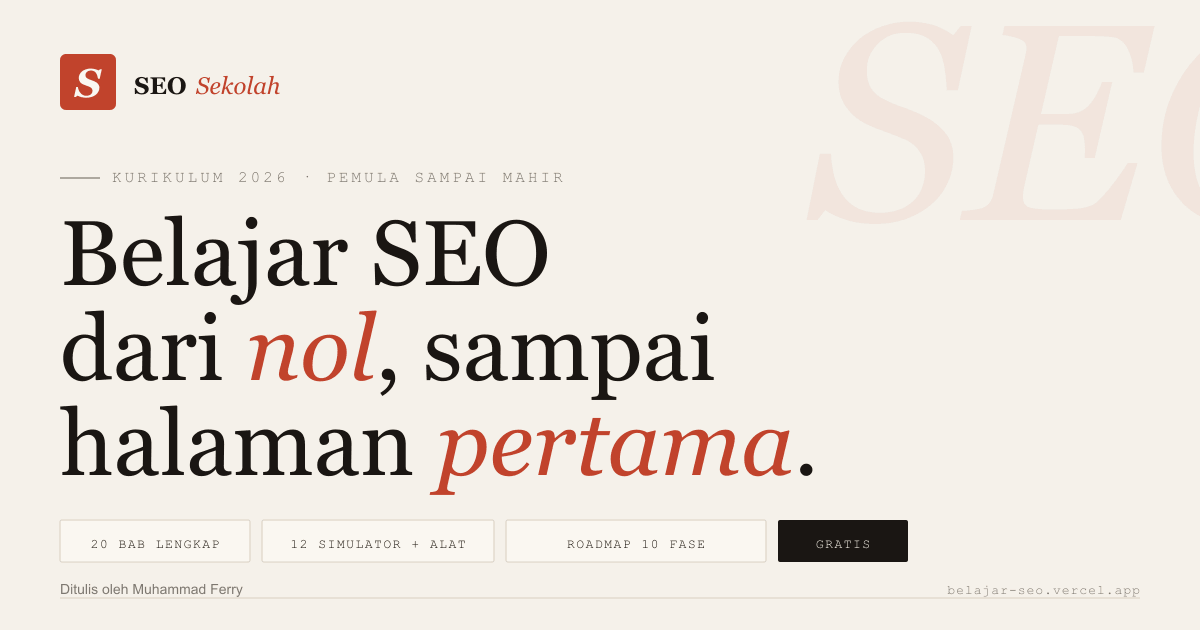
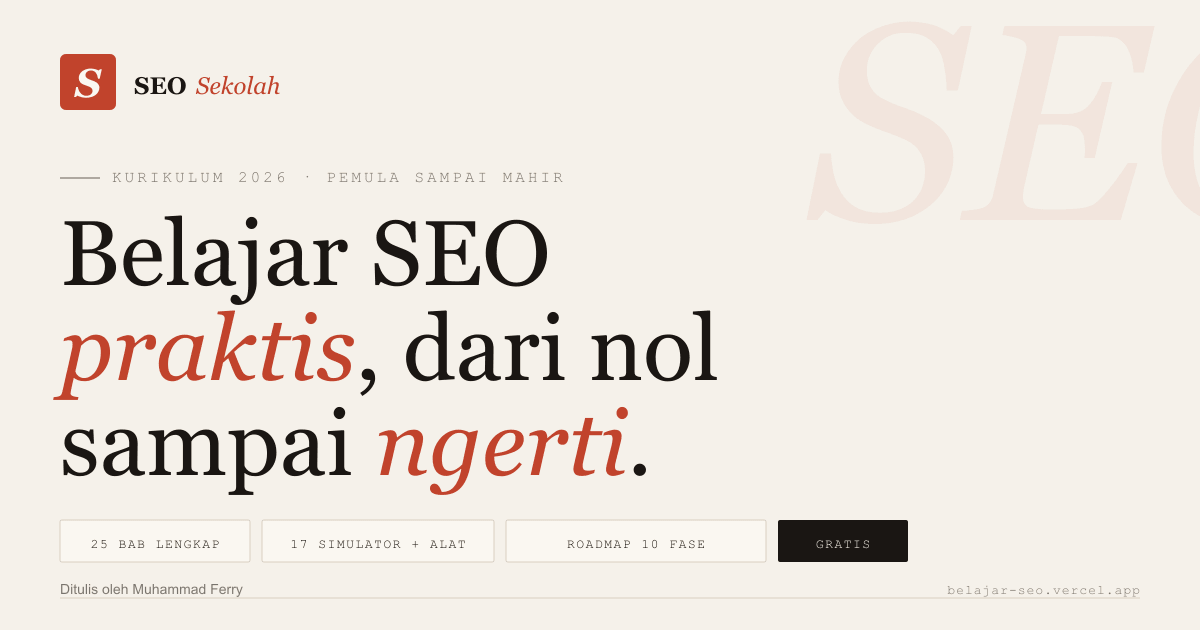
Add §12 Setup Google Tools (step-by-step GSC 5 steps, GA4 6 steps, GTM 6 steps in 3-tab panel with DNS TXT verification, Measurement ID, GA4 Configuration tag, Preview+Publish flow). Renumber 12-24 to 13-25. Hero stats 24->25 bab + 16->17 tools. Progress nav add Setup Google. H1 change to 'Belajar S

Changed region(s): [[0.0308, 0.4825, 0.6783, 0.7841]]

diff --git a/index.html b/index.html
@@ -3,7 +3,7 @@
 <head>
 <meta charset="UTF-8">
 <meta name="viewport" content="width=device-width, initial-scale=1.0">
-<title>Belajar SEO dari Nol, Interaktif dan Visual (2026)</title>
+<title>Belajar SEO Praktis dari Nol Sampai Ngerti · Kurikulum 2026</title>
 <meta name="description" content="Panduan interaktif belajar SEO dari nol sampai halaman pertama Google. Lengkap dengan simulator Core Web Vitals, animasi crawler, playground keyword, roadmap 10 fase learningseo.io, serta 10 masalah technical SEO beserta solusinya. Gratis, Bahasa Indonesia, edisi 2026.">
 <meta name="keywords" content="belajar seo, seo pemula, seo indonesia, panduan seo gratis, tutorial seo, seo 2026, core web vitals, keyword research, on page seo, technical seo, backlink, learningseo, seo sekolah, ai search, google search console">
 <meta name="author" content="Muhammad Ferry">
@@ -642,8 +642,8 @@
     <h1>Belajar SEO<br><em>praktis</em>,<br>dari nol<br>sampai ngerti.</h1>
     <p class="hero-lede">Panduan interaktif, praktis, dan jujur untuk siapa saja yang ingin websitenya ditemukan. Lengkap dengan animasi crawler, simulator Core Web Vitals, dan playground keyword. Tanpa trik, tanpa buzzword kosong.</p>
     <div class="hero-meta">
-      <div><strong>24</strong>Bab lengkap</div>
-      <div><strong>16</strong>Simulator dan alat</div>
+      <div><strong>25</strong>Bab lengkap</div>
+      <div><strong>17</strong>Simulator dan alat</div>
       <div><strong>10 fase</strong>Roadmap learningseo.io</div>
       <div><strong>Gratis</strong>Selamanya</div>
     </div>
@@ -2345,10 +2345,230 @@
   </script>
 </section>
 
+<section id="setup-google">
+  <style>
+    #setup-google { padding: 96px 32px; background: var(--bg-2); color: var(--ink); }
+    .sg-intro { max-width: 720px; font-size: 15px; color: var(--ink-2); line-height: 1.6; margin-bottom: 32px; padding: 20px 24px; background: var(--paper); border: 1px solid var(--line); border-left: 3px solid var(--accent); }
+    .sg-intro strong { color: var(--ink); font-family: 'Fraunces', serif; font-weight: 600; }
+
+    .sg-tabs { display: flex; gap: 0; margin-bottom: 0; border: 1px solid var(--line); border-bottom: none; background: var(--paper); }
+    .sg-tab { flex: 1; padding: 16px 18px; background: transparent; border: none; border-right: 1px solid var(--line); font-family: 'Fraunces', serif; font-size: 16px; font-weight: 500; color: var(--muted); cursor: pointer; text-align: left; transition: all 0.15s; }
+    .sg-tab:last-child { border-right: none; }
+    .sg-tab:hover { color: var(--accent); background: var(--bg); }
+    .sg-tab.is-active { color: var(--paper); background: var(--ink); }
+    .sg-tab small { display: block; font-family: 'JetBrains Mono', monospace; font-size: 10px; color: var(--muted); letter-spacing: 0.1em; margin-top: 4px; text-transform: uppercase; font-weight: 400; }
+    .sg-tab.is-active small { color: var(--accent-soft); }
+    @media (max-width: 760px) { .sg-tabs { flex-direction: column; } .sg-tab { border-right: none; border-bottom: 1px solid var(--line); } .sg-tab:last-child { border-bottom: none; } }
+
+    .sg-panel { background: var(--paper); border: 1px solid var(--line); padding: 40px; display: none; }
+    .sg-panel.is-active { display: block; }
+    .sg-panel-header { margin-bottom: 28px; padding-bottom: 20px; border-bottom: 1px solid var(--line); display: flex; justify-content: space-between; align-items: baseline; flex-wrap: wrap; gap: 12px; }
+    .sg-panel-title { font-family: 'Fraunces', serif; font-weight: 500; font-size: 26px; line-height: 1.2; letter-spacing: -0.01em; }
+    .sg-panel-title em { font-family: 'Instrument Serif', serif; font-style: italic; color: var(--accent); }
+    .sg-panel-meta { font-family: 'JetBrains Mono', monospace; font-size: 10px; letter-spacing: 0.12em; color: var(--muted); text-transform: uppercase; display: flex; gap: 16px; flex-wrap: wrap; }
+    .sg-panel-meta strong { color: var(--ink); }
+
+    .sg-steps { list-style: none; padding: 0; margin: 0; display: flex; flex-direction: column; gap: 0; }
+    .sg-step { display: grid; grid-template-columns: 56px 1fr; gap: 20px; padding: 20px 0; border-top: 1px dashed var(--line); }
+    .sg-step:first-child { border-top: none; padding-top: 4px; }
+    .sg-step-num { font-family: 'Instrument Serif', serif; font-style: italic; font-size: 40px; color: var(--accent); line-height: 0.9; }
+    .sg-step-title { font-family: 'Fraunces', serif; font-size: 17px; font-weight: 500; line-height: 1.3; margin-bottom: 6px; color: var(--ink); }
+    .sg-step-desc { font-size: 14px; color: var(--ink-2); line-height: 1.65; margin-bottom: 8px; }
+    .sg-step-desc code { font-family: 'JetBrains Mono', monospace; font-size: 12px; background: var(--bg); padding: 2px 6px; border: 1px solid var(--line); color: var(--accent); }
+    .sg-step-desc a { color: var(--accent); text-decoration: none; border-bottom: 1px dashed var(--accent); }
+    .sg-step-desc a:hover { color: var(--ink); border-color: var(--ink); }
+    .sg-step-tip { font-family: 'Instrument Serif', serif; font-style: italic; font-size: 13px; color: var(--muted); padding: 8px 12px; background: var(--bg); border-left: 2px solid var(--line); margin-top: 6px; }
+    .sg-step-tip strong { color: var(--ink); font-family: 'Fraunces', serif; font-weight: 500; font-style: normal; }
+  </style>
+
+  <div class="container">
+    <div class="section-header">
+      <div class="section-num"><span class="level-badge pemula">Pemula</span>12 · SETUP GOOGLE TOOLS</div>
+      <div>
+        <h2>Pasang <em>GSC, GA4, dan GTM</em> dalam 30 menit.</h2>
+        <p>Tiga tools wajib sebelum SEO serius. Gratis, resmi dari Google. Ikuti step demi step, tidak perlu tanya developer. Setelah semua setup, kamu punya data lengkap: siapa crawl situsmu, bagaimana user behavior, dan event apa yang terjadi.</p>
+      </div>
+    </div>
+
+    <div class="sg-intro">
+      <strong>Urutan rekomendasi:</strong> GSC dulu (data SEO), GA4 kedua (behavior), GTM terakhir (untuk kelola tag ke depan tanpa sentuh kode). Bisa dipasang semua dalam 1 hari kerja. Data pertama muncul setelah 24-72 jam.
+    </div>
+
+    <div class="sg-tabs" id="sg-tabs">
+      <button class="sg-tab is-active" data-panel="gsc">Google Search Console<small>GSC · ~10 menit</small></button>
+      <button class="sg-tab" data-panel="ga4">Google Analytics 4<small>GA4 · ~10 menit</small></button>
+      <button class="sg-tab" data-panel="gtm">Google Tag Manager<small>GTM · ~10 menit</small></button>
+    </div>
+
+    <div class="sg-panel is-active" data-panel="gsc">
+      <div class="sg-panel-header">
+        <div class="sg-panel-title">Setup <em>Google Search Console</em></div>
+        <div class="sg-panel-meta"><span>DATA: <strong>Query, Coverage, Core Web Vitals</strong></span><span>WAKTU: <strong>~10 menit</strong></span></div>
+      </div>
+      <ol class="sg-steps">
+        <li class="sg-step">
+          <div class="sg-step-num">i</div>
+          <div>
+            <div class="sg-step-title">Buka Google Search Console</div>
+            <div class="sg-step-desc">Kunjungi <a href="https://search.google.com/search-console" target="_blank" rel="noopener">search.google.com/search-console</a> dan sign in dengan akun Google yang kamu pakai untuk situs.</div>
+          </div>
+        </li>
+        <li class="sg-step">
+          <div class="sg-step-num">ii</div>
+          <div>
+            <div class="sg-step-title">Add Property: pilih tipe Domain</div>
+            <div class="sg-step-desc">Klik <code>Add property</code> lalu pilih <strong>Domain</strong> (bukan URL prefix). Domain property cover semua subdomain dan protokol otomatis. Masukkan nama domain tanpa http/https (contoh: <code>situsmu.com</code>).</div>
+            <div class="sg-step-tip"><strong>Kenapa Domain vs URL prefix?</strong> Domain satu property untuk semua subdomain (www, blog, shop). URL prefix cuma 1 variasi. Lebih efisien pakai Domain.</div>
+          </div>
+        </li>
+        <li class="sg-step">
+          <div class="sg-step-num">iii</div>
+          <div>
+            <div class="sg-step-title">Verifikasi via DNS TXT record</div>
+            <div class="sg-step-desc">GSC kasih TXT record unik (contoh: <code>google-site-verification=abc123...</code>). Buka panel DNS hosting/domain registrar kamu (Cloudflare, Niagahoster, dll), tambah record baru dengan tipe <strong>TXT</strong>, name <strong>@</strong>, value TXT dari GSC. Simpan, tunggu 5-15 menit, balik ke GSC klik <code>Verify</code>.</div>
+            <div class="sg-step-tip"><strong>Alternatif kalau tidak akses DNS:</strong> pilih tipe URL prefix (bukan Domain), lalu verifikasi via HTML file upload atau HTML meta tag di header situs.</div>
+          </div>
+        </li>
+        <li class="sg-step">
+          <div class="sg-step-num">iv</div>
+          <div>
+            <div class="sg-step-title">Submit sitemap.xml</div>
+            <div class="sg-step-desc">Di menu kiri GSC, klik <code>Sitemaps</code>. Masukkan URL sitemap kamu (biasanya <code>/sitemap.xml</code>). Klik Submit. Status harus "Success" dalam beberapa menit.</div>
+          </div>
+        </li>
+        <li class="sg-step">
+          <div class="sg-step-num">v</div>
+          <div>
+            <div class="sg-step-title">Tunggu data pertama (1-7 hari)</div>
+            <div class="sg-step-desc">Performance report baru menampilkan data klik/impressions setelah 24-72 jam. Coverage report lebih cepat (12-24 jam). Jangan panik kalau masih kosong hari pertama.</div>
+          </div>
+        </li>
+      </ol>
+    </div>
+
+    <div class="sg-panel" data-panel="ga4">
+      <div class="sg-panel-header">
+        <div class="sg-panel-title">Setup <em>Google Analytics 4</em></div>
+        <div class="sg-panel-meta"><span>DATA: <strong>Users, Engagement, Conversion</strong></span><span>WAKTU: <strong>~10 menit</strong></span></div>
+      </div>
+      <ol class="sg-steps">
+        <li class="sg-step">
+          <div class="sg-step-num">i</div>
+          <div>
+            <div class="sg-step-title">Buka analytics.google.com</div>
+            <div class="sg-step-desc">Sign in dengan akun Google yang sama dengan GSC. Kalau baru pertama kali: klik <code>Start measuring</code>. Kalau sudah punya account: Admin → <code>Create Property</code>.</div>
+          </div>
+        </li>
+        <li class="sg-step">
+          <div class="sg-step-num">ii</div>
+          <div>
+            <div class="sg-step-title">Buat Property baru</div>
+            <div class="sg-step-desc">Isi property name (nama bebas, contoh: "Website Utama"), pilih <strong>Reporting time zone</strong> (Asia/Jakarta) dan <strong>Currency</strong> (IDR). Klik Next, pilih business details sesuai kondisi kamu.</div>
+          </div>
+        </li>
+        <li class="sg-step">
+          <div class="sg-step-num">iii</div>
+          <div>
+            <div class="sg-step-title">Buat Data Stream: Web</div>
+            <div class="sg-step-desc">Pilih platform <strong>Web</strong>. Masukkan URL situs (contoh: <code>https://situsmu.com</code>) dan stream name. Centang <code>Enhanced measurement</code> supaya otomatis track scroll, outbound click, video, dll.</div>
+          </div>
+        </li>
+        <li class="sg-step">
+          <div class="sg-step-num">iv</div>
+          <div>
+            <div class="sg-step-title">Copy Measurement ID</div>
+            <div class="sg-step-desc">Setelah stream dibuat, kamu dapat <strong>Measurement ID</strong> format <code>G-XXXXXXXXXX</code>. Catat, butuh nanti saat pasang tag.</div>
+            <div class="sg-step-tip"><strong>Pilihan pasang tag:</strong> via GTM (disarankan, lebih fleksibel) atau paste gtag.js script langsung di <code>&lt;head&gt;</code> situs. Kalau kamu ikut guide ini sampai tab GTM, pakai GTM saja.</div>
+          </div>
+        </li>
+        <li class="sg-step">
+          <div class="sg-step-num">v</div>
+          <div>
+            <div class="sg-step-title">Verifikasi via Realtime report</div>
+            <div class="sg-step-desc">Setelah tag terpasang, buka situsmu di tab baru. Balik ke GA4, buka <code>Reports → Realtime</code>. Harus muncul 1 active user (kamu sendiri) dalam 30 detik.</div>
+          </div>
+        </li>
+        <li class="sg-step">
+          <div class="sg-step-num">vi</div>
+          <div>
+            <div class="sg-step-title">Link ke GSC (bonus)</div>
+            <div class="sg-step-desc">Admin → Product Links → Search Console Links. Connect property GSC yang tadi kamu setup. Hasilnya, GA4 bisa tampilkan query organic yang bawa traffic di report Acquisition.</div>
+          </div>
+        </li>
+      </ol>
+    </div>
+
+    <div class="sg-panel" data-panel="gtm">
+      <div class="sg-panel-header">
+        <div class="sg-panel-title">Setup <em>Google Tag Manager</em></div>
+        <div class="sg-panel-meta"><span>FUNGSI: <strong>Kelola tag tanpa sentuh kode</strong></span><span>WAKTU: <strong>~10 menit</strong></span></div>
+      </div>
+      <ol class="sg-steps">
+        <li class="sg-step">
+          <div class="sg-step-num">i</div>
+          <div>
+            <div class="sg-step-title">Buka tagmanager.google.com</div>
+            <div class="sg-step-desc">Sign in. Klik <code>Create Account</code>. Isi account name (nama brand atau perusahaan), country, container name (nama situs), dan pilih platform <strong>Web</strong>.</div>
+          </div>
+        </li>
+        <li class="sg-step">
+          <div class="sg-step-num">ii</div>
+          <div>
+            <div class="sg-step-title">Setujui TOS, copy container snippet</div>
+            <div class="sg-step-desc">GTM kasih dua blok kode (head dan body). Container ID format <code>GTM-XXXXXXX</code>. Copy kedua blok.</div>
+          </div>
+        </li>
+        <li class="sg-step">
+          <div class="sg-step-num">iii</div>
+          <div>
+            <div class="sg-step-title">Pasang snippet di semua halaman</div>
+            <div class="sg-step-desc">Blok pertama paste tepat setelah <code>&lt;head&gt;</code> setinggi mungkin. Blok kedua (noscript) paste tepat setelah <code>&lt;body&gt;</code>. Di WordPress, pakai plugin GTM4WP. Di Next.js, pasang di <code>_document.js</code>. Di Wix/Webflow, ada field khusus GTM di settings.</div>
+          </div>
+        </li>
+        <li class="sg-step">
+          <div class="sg-step-num">iv</div>
+          <div>
+            <div class="sg-step-title">Buat tag GA4 Configuration</div>
+            <div class="sg-step-desc">Di GTM: <code>Tags → New</code>. Tag type: <strong>Google Analytics: GA4 Configuration</strong>. Masukkan Measurement ID dari GA4 (<code>G-XXXXXXXXXX</code>). Trigger: <strong>All Pages</strong>. Save.</div>
+          </div>
+        </li>
+        <li class="sg-step">
+          <div class="sg-step-num">v</div>
+          <div>
+            <div class="sg-step-title">Preview & debug</div>
+            <div class="sg-step-desc">Klik <code>Preview</code> di GTM. Masukkan URL situs kamu, open in Tag Assistant. Assistant akan connect dan tunjukkan tag mana yang firing saat kamu browse situs. Pastikan GA4 Configuration fired di semua halaman.</div>
+          </div>
+        </li>
+        <li class="sg-step">
+          <div class="sg-step-num">vi</div>
+          <div>
+            <div class="sg-step-title">Submit & Publish</div>
+            <div class="sg-step-desc">Setelah test OK, klik <code>Submit</code> di GTM. Kasih version name (contoh: "Initial GA4 setup"). Klik Publish. Dari sini, semua tag baru (Facebook Pixel, Ads Conversion, custom event) tinggal deploy via GTM tanpa touch kode situs.</div>
+          </div>
+        </li>
+      </ol>
+    </div>
+  </div>
+
+  <script>
+    (function(){
+      const tabs = document.querySelectorAll('#sg-tabs .sg-tab');
+      const panels = document.querySelectorAll('#setup-google .sg-panel');
+      tabs.forEach(tab => {
+        tab.addEventListener('click', () => {
+          const key = tab.dataset.panel;
+          tabs.forEach(t => t.classList.toggle('is-active', t === tab));
+          panels.forEach(p => p.classList.toggle('is-active', p.dataset.panel === key));
+        });
+      });
+    })();
+  </script>
+</section>
+
 <section id="kurikulum" class="curriculum">
   <div class="container">
     <div class="section-header">
-      <div class="section-num"><span class="level-badge pemula">Pemula</span>12 · KURIKULUM</div>
+      <div class="section-num"><span class="level-badge pemula">Pemula</span>13 · KURIKULUM</div>
       <div>
         <h2>Delapan modul. <em>Urut.</em> Tanpa lompat.</h2>
         <p>Belajar SEO seperti membangun rumah. Kamu tidak bisa memasang dinding sebelum fondasinya kuat. Ikuti modul secara berurutan; setiap modul mengandaikan kamu sudah menguasai yang sebelumnya.</p>
@@ -2443,7 +2663,7 @@
 <section id="checklist" class="checklist-section">
   <div class="container">
     <div class="section-header">
-      <div class="section-num"><span class="level-badge pemula">Pemula</span>13 · CHECKLIST</div>
+      <div class="section-num"><span class="level-badge pemula">Pemula</span>14 · CHECKLIST</div>
       <div>
         <h2>Checklist halaman <em>pertama</em> yang akan kamu optimasi.</h2>
         <p>Sepuluh hal wajib sebelum kamu bilang "halaman ini sudah di-SEO". Klik untuk menandai, progresmu tersimpan di browser.</p>
@@ -2481,7 +2701,7 @@
 <section id="rencana">
   <div class="container">
     <div class="section-header">
-      <div class="section-num"><span class="level-badge pemula">Pemula</span>14 · RENCANA 30 HARI</div>
+      <div class="section-num"><span class="level-badge pemula">Pemula</span>15 · RENCANA 30 HARI</div>
       <div>
         <h2>30 hari pertama, <em>minggu demi minggu</em>.</h2>
         <p>Kalau kamu betul-betul dari nol, ini peta jalan 4 minggu yang sudah terbukti. Fokus dan konsisten lebih penting daripada buru-buru.</p>
@@ -2520,7 +2740,7 @@
 <section id="faq" class="faq">
   <div class="container">
     <div class="section-header">
-      <div class="section-num"><span class="level-badge pemula">Pemula</span>15 · FAQ</div>
+      <div class="section-num"><span class="level-badge pemula">Pemula</span>16 · FAQ</div>
       <div><h2>Pertanyaan yang <em>paling sering</em> ditanyakan.</h2></div>
     </div>
 
@@ -2539,7 +2759,7 @@
 <section id="onpage-inspector">
   <div class="container">
     <div class="section-header">
-      <div class="section-num"><span class="level-badge menengah">Menengah</span>16 · ON-PAGE INSPECTOR</div>
+      <div class="section-num"><span class="level-badge menengah">Menengah</span>17 · ON-PAGE INSPECTOR</div>
       <div>
         <h2 class="serif">Cek kesehatan <em class="italic-serif">on-page</em> halamanmu.</h2>
         <p>Masukkan title tag, meta description, dan target keyword. Inspector akan menilai panjang karakter, posisi keyword, serta menampilkan mockup bagaimana hasilmu muncul di Google.</p>
@@ -2701,7 +2921,7 @@
 <section id="cwv-simulator">
   <div class="container">
     <div class="section-header">
-      <div class="section-num"><span class="level-badge menengah">Menengah</span>17 · CORE WEB VITALS</div>
+      <div class="section-num"><span class="level-badge menengah">Menengah</span>18 · CORE WEB VITALS</div>
       <div>
         <h2 class="serif">Simulasi performa <em class="italic-serif">halaman</em>mu.</h2>
         <p>Geser slider untuk melihat bagaimana tiga metrik Core Web Vitals (LCP, CLS, INP) berinteraksi. Google pakai ketiganya sebagai sinyal ranking sejak 2021, jadi jangan cuma kejar konten, kejar juga kecepatan.</p>
@@ -2808,7 +3028,7 @@
 <section id="backlink-graph">
   <div class="container">
     <div class="section-header">
-      <div class="section-num"><span class="level-badge menengah">Menengah</span>18 · BACKLINK FLOW</div>
+      <div class="section-num"><span class="level-badge menengah">Menengah</span>19 · BACKLINK FLOW</div>
       <div>
         <h2 class="serif">Bagaimana <em class="italic-serif">link equity</em> mengalir?</h2>
         <p>Setiap backlink mengirim sinyal otoritas ke situsmu, tapi tidak semua link sama bobotnya. Visual di bawah memperlihatkan bagaimana link berkualitas tinggi mendorong skor naik, sementara link spam justru bisa menarikmu turun.</p>
@@ -3042,7 +3262,7 @@
 
   <div class="container">
     <div class="section-header">
-      <div class="section-num"><span class="level-badge mahir">Mahir</span>19 · TECHNICAL SEO</div>
+      <div class="section-num"><span class="level-badge mahir">Mahir</span>20 · TECHNICAL SEO</div>
       <div>
         <h2>Sepuluh <em>masalah teknis</em> paling sering, lengkap dengan solusinya.</h2>
         <p>Technical SEO adalah fondasi infrastruktur. Kalau Googlebot tidak bisa crawl, render, atau index situsmu dengan benar, konten sebagus apapun tidak akan tampil di SERP. Bagian ini memetakan masalah-masalah paling umum yang kami temui di audit situs UMKM maupun enterprise.</p>
@@ -3529,7 +3749,7 @@
 
   <div class="container">
     <div class="section-header">
-      <div class="section-num"><span class="level-badge mahir">Mahir</span>20 · CRAWL BUDGET</div>
+      <div class="section-num"><span class="level-badge mahir">Mahir</span>21 · CRAWL BUDGET</div>
       <div>
         <h2>Berapa halaman Googlebot mau <em>crawl</em> dari situsmu?</h2>
         <p>Crawl budget adalah resource terbatas yang Google alokasikan untuk menjelajahi situsmu tiap hari. Untuk situs kecil tidak jadi masalah, tapi untuk e-commerce dengan ratusan ribu URL, salah manajemen bikin halaman penting tidak pernah di-crawl.</p>
@@ -3894,7 +4114,7 @@
 
   <div class="container">
     <div class="section-header">
-      <div class="section-num"><span class="level-badge mahir">Mahir</span>21 · GEO</div>
+      <div class="section-num"><span class="level-badge mahir">Mahir</span>22 · GEO</div>
       <div>
         <h2>Generative <em>Engine</em> Optimization: di-cite oleh ChatGPT, Perplexity, dan Gemini.</h2>
         <p>Kalau SEO tradisional ngejar posisi di SERP, GEO ngejar di-cite sebagai sumber di jawaban AI. Dua-duanya wajib di 2026, tapi teknik-nya beda. Bagian ini rangkum riset kredibel dari Princeton dan Gartner.</p>
@@ -4064,7 +4284,7 @@
 <section id="tools" class="tools">
   <div class="container">
     <div class="section-header">
-      <div class="section-num"><span class="level-badge semua">Semua Level</span>22 · TOOLS</div>
+      <div class="section-num"><span class="level-badge semua">Semua Level</span>23 · TOOLS</div>
       <div>
         <h2>Tools <em>gratis</em> yang cukup untuk memulai.</h2>
         <p>Jangan terjebak marketing tools mahal. Untuk pemula, kombinasi tools gratis di bawah ini sudah lebih dari cukup selama 6 bulan pertama.</p>
@@ -4163,7 +4383,7 @@
 <section id="glosarium">
   <div class="container">
     <div class="section-header">
-      <div class="section-num"><span class="level-badge semua">Semua Level</span>23 · GLOSARIUM</div>
+      <div class="section-num"><span class="level-badge semua">Semua Level</span>24 · GLOSARIUM</div>
       <div>
         <h2>Istilah yang akan <em>sering</em> kamu temui.</h2>
         <p>SEO penuh jargon, dan banyak panduan menggunakannya seolah-olah semua orang sudah tahu. Berikut bahasa Indonesia plainnya.</p>
@@ -4221,7 +4441,7 @@
 
   <div class="container">
     <div class="section-header">
-      <div class="section-num">24 · TENTANG PENULIS</div>
+      <div class="section-num">25 · TENTANG PENULIS</div>
       <div>
         <h2>Bahan ini <em>tidak</em> ditulis oleh AI generik.</h2>
         <p>Semua materi disusun dari pengalaman lapangan, referensi Google Search Central, studi kasus UMKM dan enterprise, serta eksperimen di klien nyata.</p>
@@ -4350,22 +4570,23 @@
   <a class="progress-nav-item" data-section="keyword-playground" href="#keyword-playground"><span class="progress-nav-label">09 Keyword</span></a>
   <a class="progress-nav-item" data-section="title-generator" href="#title-generator"><span class="progress-nav-label">10 Title Gen</span></a>
   <a class="progress-nav-item" data-section="revenue-simulator" href="#revenue-simulator"><span class="progress-nav-label">11 Revenue Sim</span></a>
-  <a class="progress-nav-item" data-section="kurikulum" href="#kurikulum"><span class="progress-nav-label">12 Kurikulum</span></a>
-  <a class="progress-nav-item" data-section="checklist" href="#checklist"><span class="progress-nav-label">13 Checklist</span></a>
-  <a class="progress-nav-item" data-section="rencana" href="#rencana"><span class="progress-nav-label">14 30 Hari</span></a>
-  <a class="progress-nav-item" data-section="faq" href="#faq"><span class="progress-nav-label">15 FAQ</span></a>
+  <a class="progress-nav-item" data-section="setup-google" href="#setup-google"><span class="progress-nav-label">12 Setup Google</span></a>
+  <a class="progress-nav-item" data-section="kurikulum" href="#kurikulum"><span class="progress-nav-label">13 Kurikulum</span></a>
+  <a class="progress-nav-item" data-section="checklist" href="#checklist"><span class="progress-nav-label">14 Checklist</span></a>
+  <a class="progress-nav-item" data-section="rencana" href="#rencana"><span class="progress-nav-label">15 30 Hari</span></a>
+  <a class="progress-nav-item" data-section="faq" href="#faq"><span class="progress-nav-label">16 FAQ</span></a>
   <a class="progress-nav-item is-chapter" href="#onpage-inspector"><span class="progress-nav-label">MENENGAH</span></a>
-  <a class="progress-nav-item" data-section="onpage-inspector" href="#onpage-inspector"><span class="progress-nav-label">16 On-Page</span></a>
-  <a class="progress-nav-item" data-section="cwv-simulator" href="#cwv-simulator"><span class="progress-nav-label">17 CWV</span></a>
-  <a class="progress-nav-item" data-section="backlink-graph" href="#backlink-graph"><span class="progress-nav-label">18 Backlink</span></a>
+  <a class="progress-nav-item" data-section="onpage-inspector" href="#onpage-inspector"><span class="progress-nav-label">17 On-Page</span></a>
+  <a class="progress-nav-item" data-section="cwv-simulator" href="#cwv-simulator"><span class="progress-nav-label">18 CWV</span></a>
+  <a class="progress-nav-item" data-section="backlink-graph" href="#backlink-graph"><span class="progress-nav-label">19 Backlink</span></a>
   <a class="progress-nav-item is-chapter" href="#technical-seo"><span class="progress-nav-label">MAHIR</span></a>
-  <a class="progress-nav-item" data-section="technical-seo" href="#technical-seo"><span class="progress-nav-label">19 Technical</span></a>
-  <a class="progress-nav-item" data-section="crawl-budget" href="#crawl-budget"><span class="progress-nav-label">20 Crawl Budget</span></a>
-  <a class="progress-nav-item" data-section="geo" href="#geo"><span class="progress-nav-label">21 GEO</span></a>
+  <a class="progress-nav-item" data-section="technical-seo" href="#technical-seo"><span class="progress-nav-label">20 Technical</span></a>
+  <a class="progress-nav-item" data-section="crawl-budget" href="#crawl-budget"><span class="progress-nav-label">21 Crawl Budget</span></a>
+  <a class="progress-nav-item" data-section="geo" href="#geo"><span class="progress-nav-label">22 GEO</span></a>
   <a class="progress-nav-item is-chapter" href="#tools"><span class="progress-nav-label">REFERENSI</span></a>
-  <a class="progress-nav-item" data-section="tools" href="#tools"><span class="progress-nav-label">22 Tools</span></a>
-  <a class="progress-nav-item" data-section="glosarium" href="#glosarium"><span class="progress-nav-label">23 Glosarium</span></a>
-  <a class="progress-nav-item" data-section="tentang-penulis" href="#tentang-penulis"><span class="progress-nav-label">24 Penulis</span></a>
+  <a class="progress-nav-item" data-section="tools" href="#tools"><span class="progress-nav-label">23 Tools</span></a>
+  <a class="progress-nav-item" data-section="glosarium" href="#glosarium"><span class="progress-nav-label">24 Glosarium</span></a>
+  <a class="progress-nav-item" data-section="tentang-penulis" href="#tentang-penulis"><span class="progress-nav-label">25 Penulis</span></a>
 </nav>
 
 <button class="back-top" id="backTop" aria-label="Kembali ke atas">↑</button>
